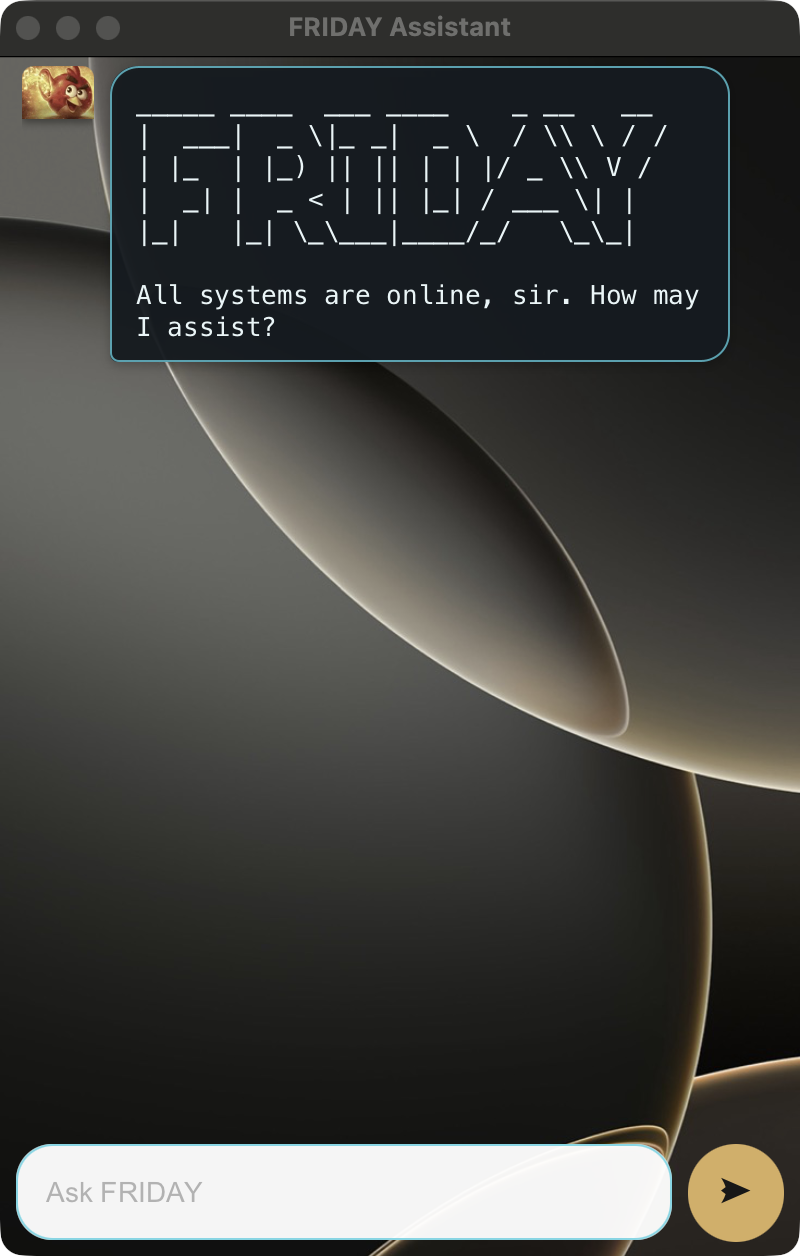
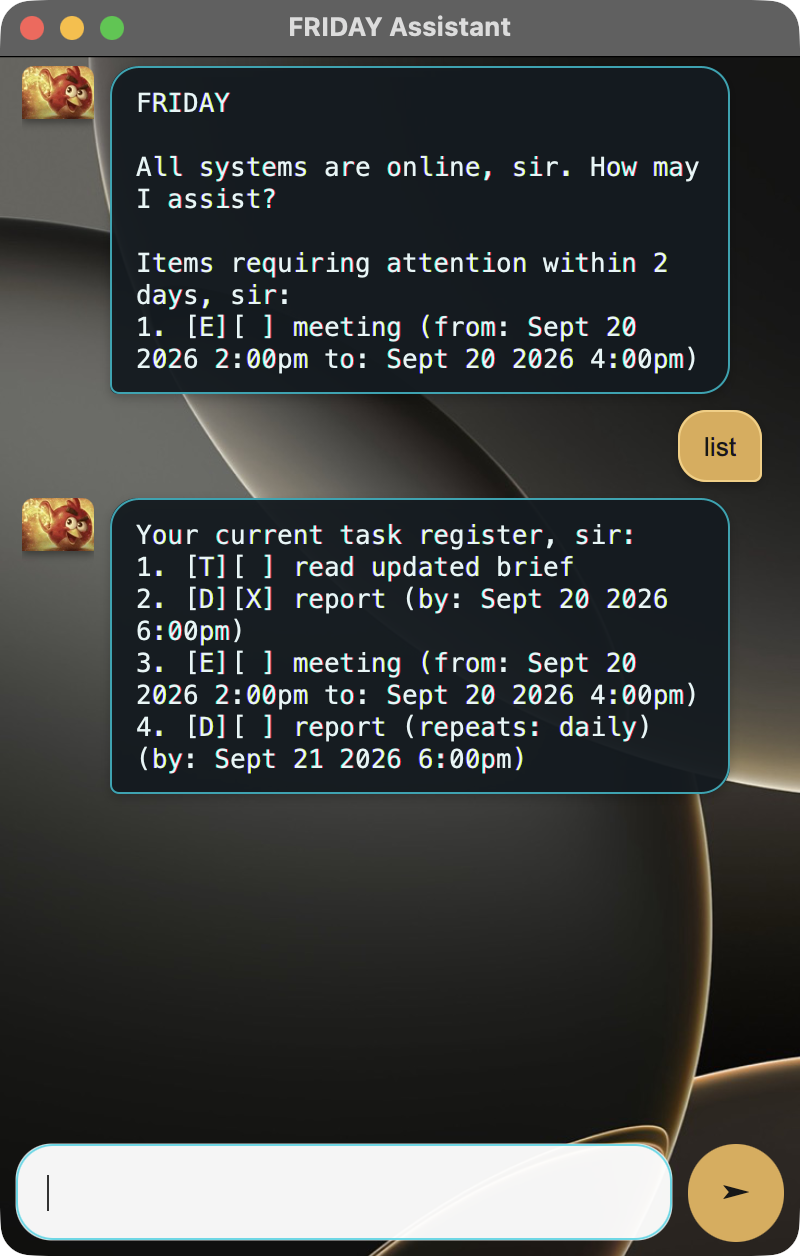
Document release fixes and grading checks
Explain editing, recurrence, reserved characters, and save recovery
so the user guide matches the corrected behavior. Refresh the full
window screenshot and link directly to the latest release.

Record grading evidence and verification limits rather than treating
a passing build as a guarantee of full marks.

diff --git a/docs/README.md b/docs/README.md
@@ -8,7 +8,7 @@ manage todos, deadlines, events, recurring work, and reminders.
 ## Quick start
 
 1. Install Java 25.
-2. Download `friday.jar`.
+2. Download `friday.jar` from the [latest release](https://github.com/SomaadityaSamal/ip/releases/latest).
 3. Place the JAR in the folder where you want FRIDAY to keep its `data` folder.
 4. Open a terminal in that folder and run:
 
@@ -18,6 +18,9 @@ java -jar friday.jar
 
 Enter commands in the message field and press `Enter` or select the send icon. You can resize the window and scroll
 through earlier messages using a mouse wheel or trackpad.
+
+The single JAR bundles JavaFX for Windows x64, Linux x64, and Intel/Apple Silicon Macs. Use Java 25 matching your
+computer's architecture. ARM Linux and ARM Windows are not supported by the bundled libraries.
 
 ## Command summary
 
@@ -31,6 +34,7 @@ through earlier messages using a mouse wheel or trackpad.
 | Mark a task complete | `mark TASK_NUMBER` |
 | Mark a task incomplete | `unmark TASK_NUMBER` |
 | Delete a task | `delete TASK_NUMBER` |
+| Edit a description | `edit TASK_NUMBER DESCRIPTION` |
 | Find tasks | `find KEYWORD` |
 | Sort tasks | `sort` |
 | Repeat a task | `repeat TASK_NUMBER FREQUENCY` |
@@ -85,6 +89,11 @@ delete 2
 
 Task numbers can change after deletion, so use `list` before deleting when unsure.
 
+### Editing a description
+
+Use `edit 1 read the updated brief` to replace task 1's description. Its type, dates, completion status, and
+recurrence remain unchanged. To change dates or task type, delete the task and add its replacement.
+
 ## Finding and organizing tasks
 
 ### Finding tasks
@@ -107,18 +116,35 @@ Use `repeat TASK_NUMBER FREQUENCY`. Supported frequencies are `daily`, `weekly`,
 repeat 1 weekly
 ```
 
+When an incomplete recurring task is marked complete, FRIDAY appends its next incomplete occurrence to the list.
+The completed occurrence no longer repeats, so marking it again (even after unmarking or restarting) does not
+create duplicates. Set recurrence on an incomplete task only.
+
+Deadlines advance from their previous due date; events advance their start date and retain their duration.
+Monthly and yearly recurrence clamps to the last valid day when necessary (for example, January 31 becomes
+February 28). Overdue tasks advance one interval at a time, not straight to today. A recurring todo's next
+occurrence becomes a deadline one interval after completion, giving its frequency a concrete date.
+
 ### Viewing reminders
 
-Use `reminders` to show all dated tasks in chronological order. When FRIDAY starts, it also highlights tasks due within
+Use `reminders` to show incomplete dated tasks in chronological order. When FRIDAY starts, it also highlights tasks due within
 the next two days.
 
 ## Errors and saved data
 
 FRIDAY explains invalid commands in a red response bubble. It rejects missing descriptions, invalid task numbers,
 impossible dates, repeated command markers, and events whose ending time is not after their starting time.
+Pipe (`|`) characters and line breaks are not allowed in task descriptions because they are reserved by the save format.
 
-Tasks are saved automatically in a `data` folder beside the JAR. If no save file exists, FRIDAY starts with an empty
+Tasks are saved automatically to `data/duke.txt` relative to the terminal's current folder. If no save file exists, FRIDAY starts with an empty
 task list and creates the file when the first task is saved.
+
+If an existing file cannot be read, the welcome message explains the problem and changes are disabled to prevent
+data loss. Back up the file, correct the reported invalid line (or restore a known-good backup), and restart.
+Failed saves leave the in-memory task list unchanged.
+
+The alternative date/time format `yyyy-MM-dd HHmm`, for example `2026-09-20 1800`, is also accepted.
+Task numbers in search results and reminders are display positions: use `list` for the numbers to pass to commands.
 
 ## Exiting
 

diff --git a/docs/release-checks.md b/docs/release-checks.md
@@ -1,0 +1,42 @@
+# Release Checks: v0.3
+
+Checked on 18 September 2026 against the course's
+[iP grading criteria](https://nus-cs2103-ay2627-s1.github.io/website/admin/ip-grading.html) and
+[final submission instructions](https://nus-cs2103-ay2627-s1.github.io/website/admin/ip-w6.html).
+This is an evidence checklist, not a guarantee of a grade.
+
+## Implementation and Documentation
+
+- Level-0 through Level-10 tags and the required A-increment tags are present on the remote.
+- Task inheritance, separate parser/storage/UI classes, exception handling, assertions, and public Javadocs exist.
+- JUnit covers parsing, storage, task operations, date validation, and GUI response logic.
+- New regression tests cover pipe-character rejection, corrupt-file protection, failed-save rollback,
+  recurrence persistence and duplicate prevention, calendar boundaries, editing, and completed reminders.
+- A-BetterGui, A-Personality, A-MoreErrorHandling, and A-MoreTesting are implemented and tagged.
+- BCD-Extension is tagged; sorting, recurrence, and reminders are implemented and documented.
+- The product guide covers all commands, date formats, persistence, errors, and recurrence semantics.
+- GitHub Pages is configured for master/docs; docs/Ui.png contains one complete app window.
+- The release contains one Gradle-built fat JAR, not multiple platform-specific assets.
+
+## Smoke Testing
+
+- macOS 26.6.2, Apple Silicon, plain Temurin Java 25.0.3 (without bundled JavaFX): launch, task creation,
+  description editing, recurrence, invalid input, Enter/Send, and restart persistence passed.
+- Intel Mac, Windows, and Linux execution of v0.3 has not been verified locally. Their native libraries are
+  bundled. Windows and Linux testers reported successful launch of v0.2 in forum issue #403.
+- Native Mac libraries are stored by architecture and extracted at startup. The loader integration was checked
+  against [OpenJFX NativeLibLoader](https://github.com/openjdk/jfx/blob/jfx17/modules/javafx.graphics/src/main/java/com/sun/glass/utils/NativeLibLoader.java).
+
+## Project Management Limits
+
+- Recent commit subjects use imperative, capitalized summaries; release fixes include explanatory bodies.
+- Repository history shows work in weeks 3, 4, 5, and 6 (24 August through 18 September).
+- Historical submission timeliness, required peer reviews, Git-Mastery activities, and the student's exact
+  dashboard row still require confirmation against course records. Existing history has not been rewritten.
+- Full marks require all grading bars, including project management. Passing tests alone cannot establish that.
+
+## Feedback Addressed
+
+See [forum issue #403](https://github.com/NUS-CS2103-AY2627-S1/forum/issues/403).
+Thanks to DhruvBawa and MinhHoangLeNUS for identifying persistence, recurrence, greeting, and editing issues,
+and zxtay3 for macOS smoke testing.
